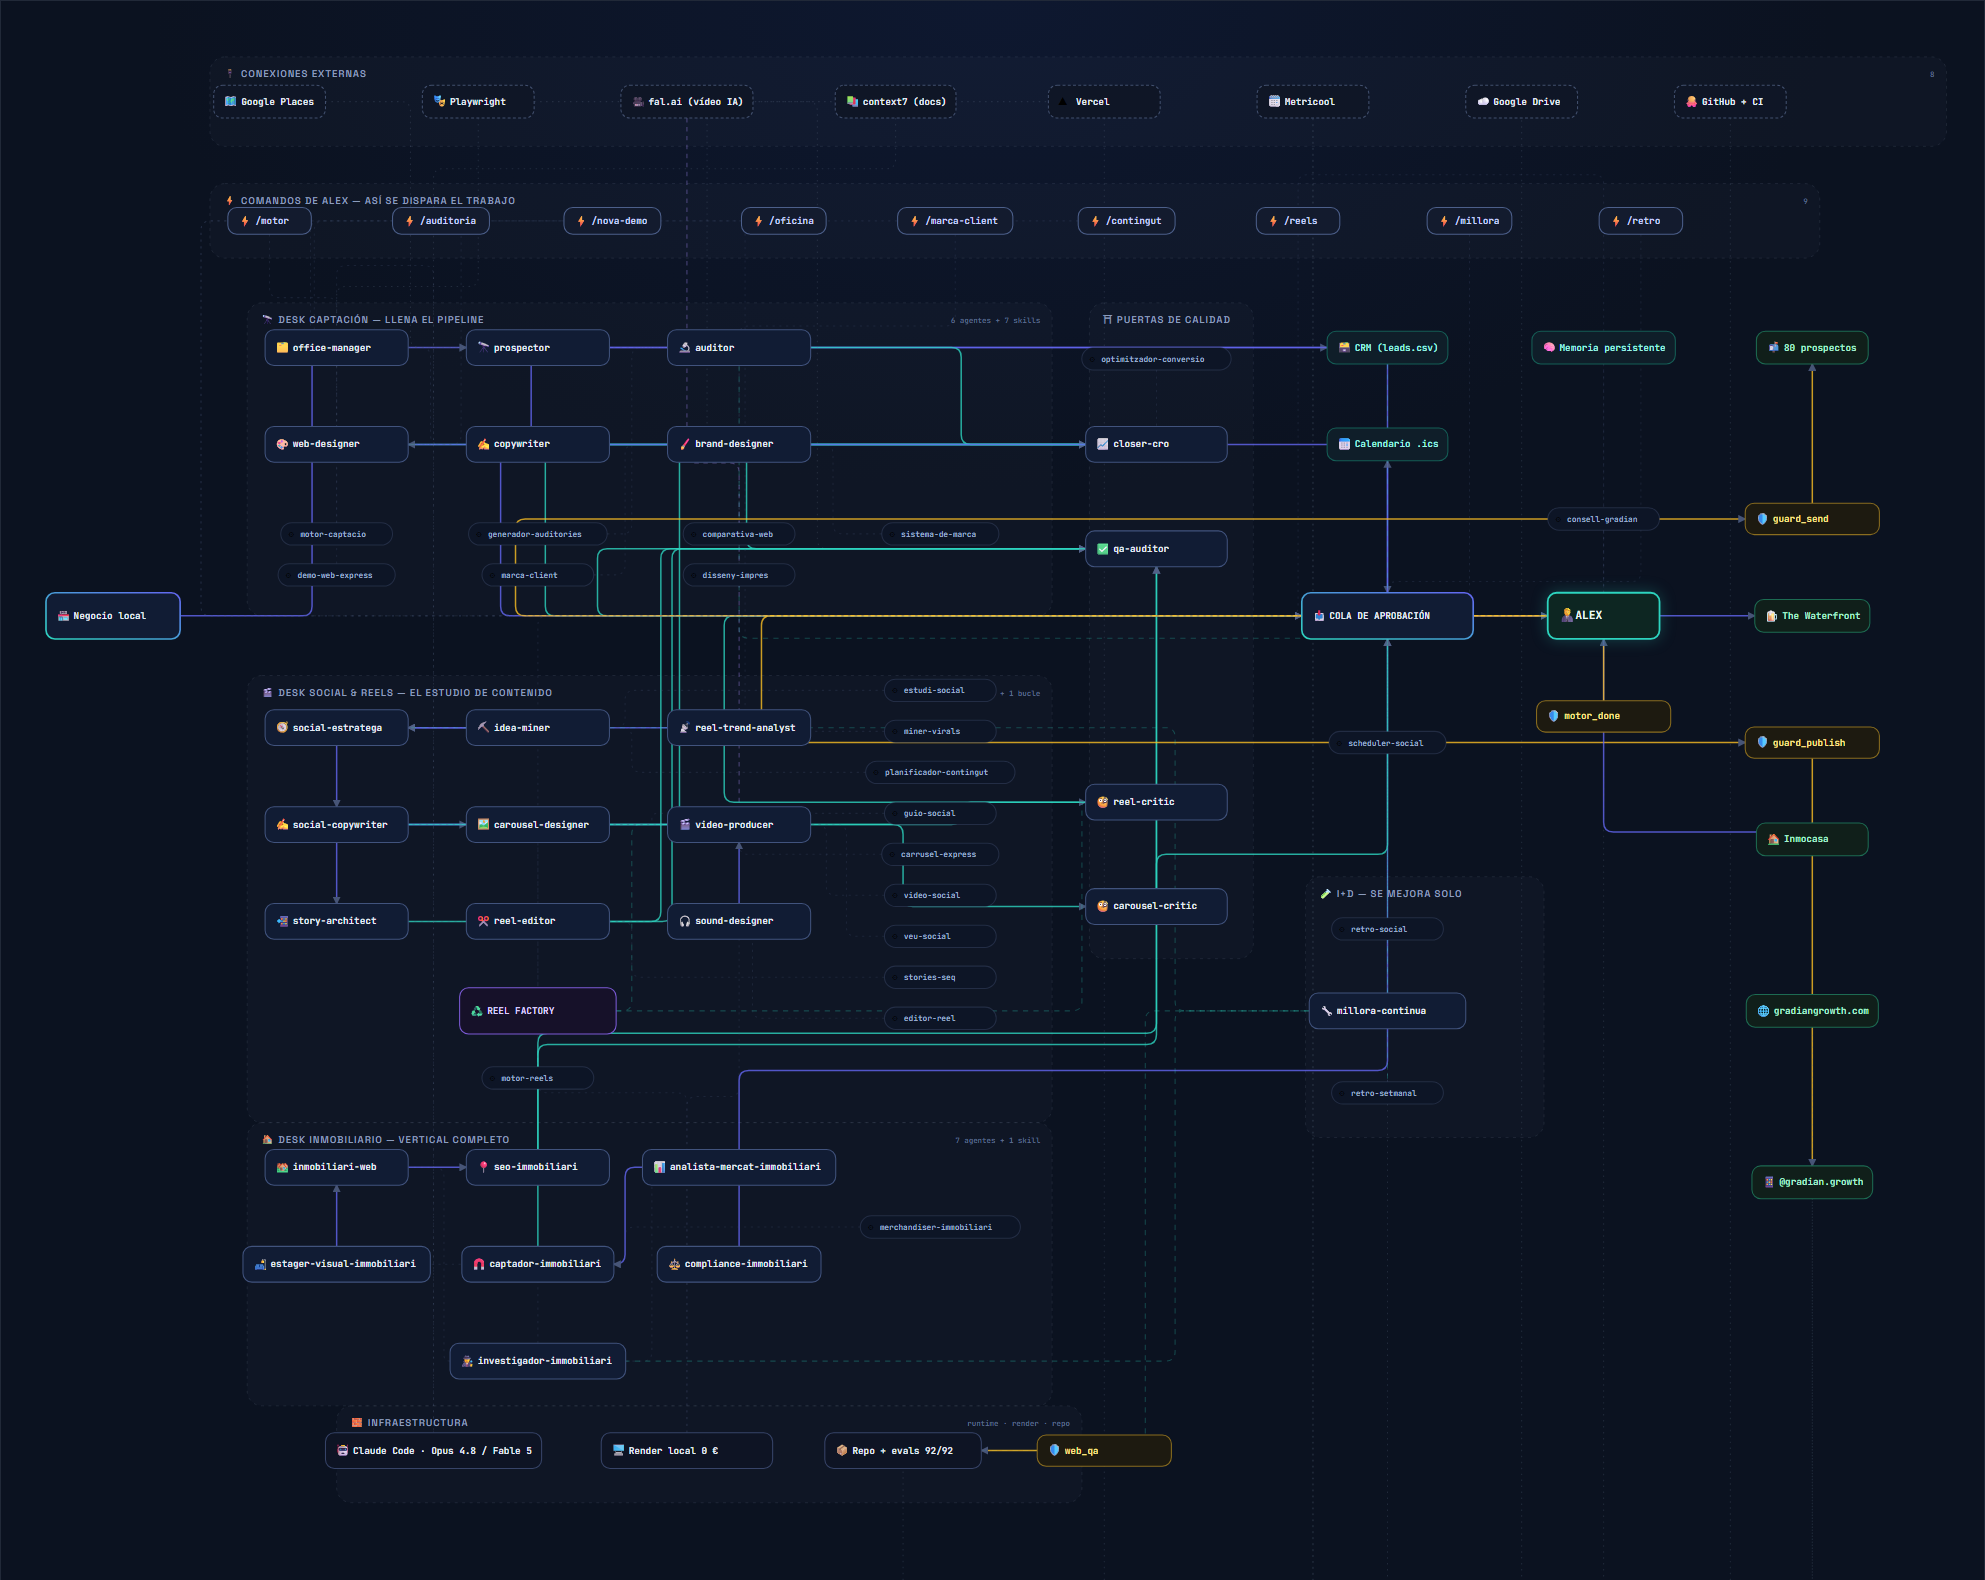
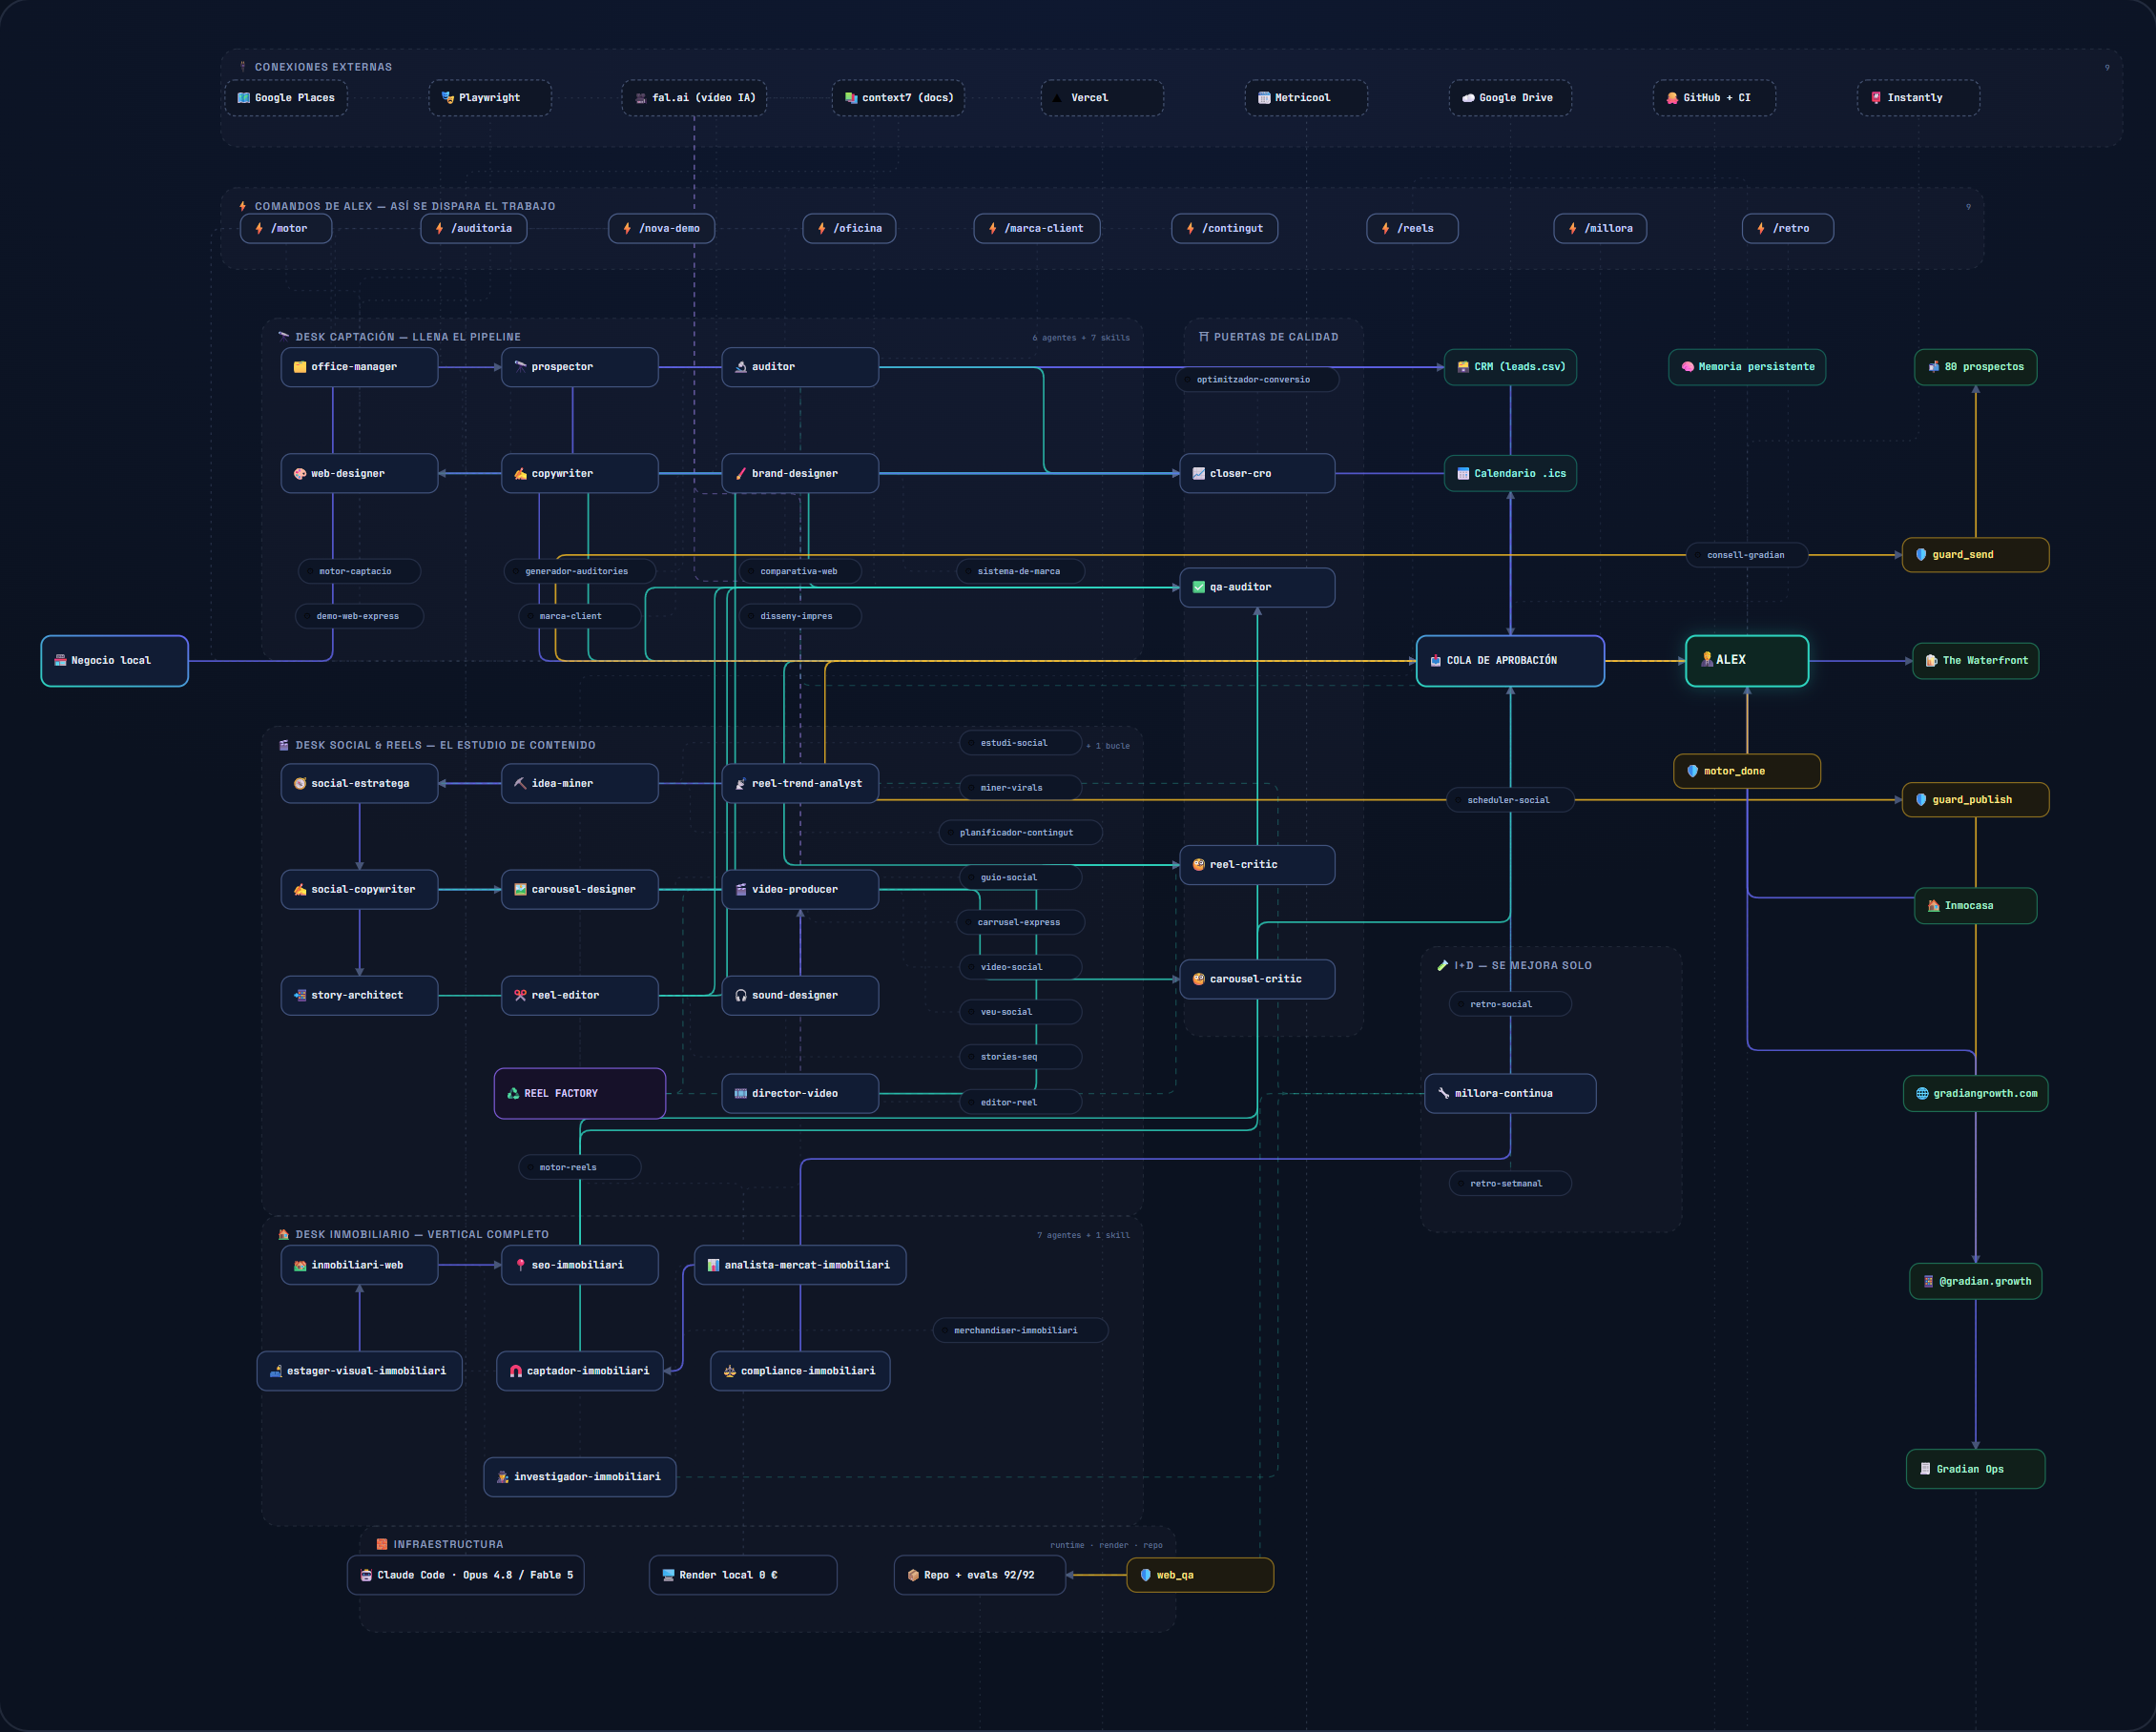
feat: línea Gradian Ops (automatización de procesos) + director-video — 28 agentes, 89 nodos, 111 conexiones
- Mapa: nodos nuevos (Gradian Ops, Instantly con campañas en pausa hasta OK humano, director-video), fila de conexiones externas re-espaciada, tarjeta de resultados de la línea Ops
- Informe PDF re-renderizado (12 pág.) con los recuentos nuevos y la línea Ops en resultados y transferibilidad
- README: línea Ops (gestorías, VeriFactu 2027) + números actualizados

diff --git a/index.html b/index.html
@@ -182,12 +182,12 @@
       <svg viewBox="0 0 100 100" role="img" aria-label="Gradian"><defs><linearGradient id="g1" gradientUnits="userSpaceOnUse" x1="24" y1="76" x2="80" y2="26"><stop offset="0" stop-color="#2DD4BF"/><stop offset="1" stop-color="#6366F1"/></linearGradient></defs><circle cx="24" cy="76" r="6.2" fill="none" stroke="url(#g1)" stroke-width="3.4"/><g fill="none" stroke="url(#g1)" stroke-width="8" stroke-linecap="round" stroke-linejoin="round"><line x1="35" y1="66" x2="80" y2="26"/><path d="M62.5 30.3 L80 26 L73.7 42.9"/></g></svg>
       <b>Gradian</b><span>Digital Growth · mapa del sistema</span>
     </div>
-    <h1>Una persona. <span class="g">Una oficina de 27 agentes de IA.</span></h1>
+    <h1>Una persona. <span class="g">Una oficina de 28 agentes de IA.</span></h1>
     <p class="sub">Así funciona el sistema que investiga negocios locales, fabrica su material de venta
     (auditorías, webs de demostración, marca, contenido para redes: carruseles, reels y stories) y lo deja listo para revisar.
     <strong style="color:var(--head)">Nada se envía ni se publica solo: la última palabra siempre es humana.</strong></p>
     <div class="chips">
-      <div class="chip"><div class="n">27</div><div class="l">agentes especialistas</div></div>
+      <div class="chip"><div class="n">28</div><div class="l">agentes especialistas</div></div>
       <div class="chip"><div class="n">23</div><div class="l">procedimientos (skills)</div></div>
       <div class="chip"><div class="n"><em>2.480</em>&hairsp;M</div><div class="l">tokens procesados en 18 días</div></div>
       <div class="chip"><div class="n">~0&thinsp;€</div><div class="l">coste marginal por pieza</div></div>
@@ -201,7 +201,7 @@
     <h2>Qué entra, qué sale y quién decide</h2>
     <div class="steps">
       <div class="step"><div class="num">01</div><h3>Entra un negocio local</h3><p>El sistema lo encuentra, comprueba que está abierto y puntúa si encaja (web floja, sin reservas, redes muertas…).</p></div>
-      <div class="step"><div class="num">02</div><h3>La oficina produce</h3><p>Auditoría con la oportunidad en €, web de demostración con su marca real, identidad, contenido para Instagram/TikTok.</p></div>
+      <div class="step"><div class="num">02</div><h3>La oficina produce</h3><p>Auditoría con la oportunidad en €, web de demostración con su marca real, identidad, contenido para Instagram/TikTok y recetas de automatización de procesos (línea Ops).</p></div>
       <div class="step"><div class="num">03</div><h3>Controles automáticos</h3><p>Todo pasa filtros de calidad: revisión de conversión (mínimo 80/100), QA técnico y críticos visuales que puntúan cada pieza.</p></div>
       <div class="step human"><div class="num">04</div><h3>Un humano aprueba</h3><p>El material espera en una cola de aprobación. Alex revisa, edita si hace falta y <strong>envía a mano</strong>. Siempre.</p></div>
     </div>
@@ -212,7 +212,7 @@
   <div class="wrap">
     <div class="overline">El mapa completo</div>
     <h2>Todos los nodos, todas las conexiones</h2>
-    <p class="lead" style="margin-top:12px">Cada pieza del sistema es un nodo: <strong style="color:var(--head)">27 agentes, 23 skills,
+    <p class="lead" style="margin-top:12px">Cada pieza del sistema es un nodo: <strong style="color:var(--head)">28 agentes, 23 skills,
     9 comandos, 4 bloqueos, las conexiones externas, los datos y las salidas</strong>. Arrastra para moverte, usa la rueda para hacer
     zoom, pasa el ratón para ver las conexiones de cada nodo y haz clic para el detalle.</p>
 
@@ -295,6 +295,7 @@
       <div class="re"><span class="tag">CLIENTE REAL</span><h3>Inmocasa (inmobiliaria)</h3><p>Rebranding + web de 378 páginas en 7 idiomas con motor de fichas premium, embudo de propietarios y kit de compliance. Entregado; implementación durante julio de 2026.</p></div>
       <div class="re"><span class="tag p">PIPELINE</span><h3>80 prospectos preparados</h3><p>Auditorías con la oportunidad en €, demos con la marca real de cada negocio y borradores de contacto listos para revisar.</p></div>
       <div class="re"><span class="tag p">PRODUCTO PROPIO</span><h3>Web + estudio de contenido</h3><p>gradiangrowth.com en 3 idiomas (accesibilidad 100/100) y una fábrica de reels y carruseles que se critica y mejora a sí misma.</p></div>
+      <div class="re"><span class="tag p">LÍNEA NUEVA · JUL 2026</span><h3>Gradian Ops — automatización</h3><p>Recetas cerradas que automatizan los procesos manuales que sangran tiempo (facturas, mensajes, citas), con mantenimiento mensual. Primer vertical: gestorías, con la factura electrónica obligatoria (VeriFactu, 2027) como ventana. Primera radiografía de operaciones entregada a un cliente real con dos oficinas.</p></div>
     </div>
   </div>
 </section>
@@ -364,6 +365,7 @@ const N = [
  ["reledit","agent",690,1240,"✂️","reel-editor","Convierte grabaciones reales del cliente en reels verticales subtitulados, transcribiendo en local (0 €)."],
  ["sound","agent",960,1240,"🎧","sound-designer","Los efectos de sonido de los reels: whooshes, ticks y blips sincronizados que nunca tapan la voz. Mezcla final a −14 LUFS."],
  ["factory","loop",690,1360,"♻️","REEL FACTORY","El bucle autónomo: produce un reel → el crítico lo puntúa → se aplican mejoras al motor → se registra la lección → siguiente ciclo. Corre solo con /loop /reels.",210],
+ ["dirvideo","agent",960,1360,"🎞️","director-video","El director de vídeo de marca: storyboard, prompts plano a plano, consistencia del objeto de marca entre planos (IA generativa con presupuesto acotado y registro de gasto) y montaje local. Puertas de calidad: hoja de contactos antes de generar vídeo y crítico ≥ 80 sobre el máster."],
 
  /* --- skills social --- */
  ["s_estudi","skill",1230,930,"⚙","estudi-social","El bucle completo del mes de contenido de un cliente."],
@@ -396,19 +398,20 @@ const N = [
  ["s_cro","skill",1520,485,"⚙","optimitzador-conversio","La rúbrica CRO de 7 palancas con umbral 80/100."],
 
  /* --- I+D --- */
- ["millora","agent",1830,1360,"🔧","millora-continua","El agente de I+D: audita el propio sistema, investiga buenas prácticas y aplica mejoras pequeñas y reversibles. Corre los tests de integridad tras cada cambio. Es el 27º agente — el que mejora a los otros 26.",210],
+ ["millora","agent",1830,1360,"🔧","millora-continua","El agente de I+D: audita el propio sistema, investiga buenas prácticas y aplica mejoras pequeñas y reversibles. Corre los tests de integridad tras cada cambio. Es el 28º agente — el que mejora a los otros 27.",210],
  ["s_retro","skill",1830,1470,"⚙","retro-setmanal","Lee el CRM, calcula el embudo real y propone 3 mejoras concretas."],
  ["s_retrosocial","skill",1830,1250,"⚙","retro-social","La señal aprobado/editado/rechazado de la cola → mejoras al banco de ángulos y a los prompts."],
 
  /* --- conexiones externas --- */
  ["places","ext",330,140,"🗺️","Google Places","Fuente del sourcing: nombre, web, teléfono, reseñas y estado (abierto/cerrado) de negocios por zona."],
- ["playwright","ext",610,140,"🎭","Playwright","Un navegador real controlado por agentes: capturas para teasers, QA visual y verificación de webs clicando de verdad."],
- ["fal","ext",890,140,"🎥","fal.ai (vídeo IA)","Generación de vídeo de pago (Kling/Veo). OPT-IN: solo con presupuesto aprobado por Alex; el gasto se reporta tras cada uso."],
- ["context7","ext",1170,140,"📚","context7 (docs)","Documentación técnica viva de librerías y frameworks para no programar de memoria."],
- ["vercel","ext",1450,140,"▲","Vercel","Despliegue: la web pública y las demos de prospecto (URLs demo-*, con noindex)."],
- ["metricool","ext",1730,140,"🗓️","Metricool","Programación de redes vía OAuth de Alex. La máquina jamás tiene credenciales de las cuentas."],
- ["drive","ext",2010,140,"☁️","Google Drive","La carpeta espejo diaria para revisar y enviar desde el móvil (mensaje + PDFs por lead)."],
- ["github","ext",2290,140,"🐙","GitHub + CI","Repositorio privado con integración continua: cada cambio dispara los 92 tests de integridad y el build de la web."],
+ ["playwright","ext",580,140,"🎭","Playwright","Un navegador real controlado por agentes: capturas para teasers, QA visual y verificación de webs clicando de verdad."],
+ ["fal","ext",830,140,"🎥","fal.ai (vídeo IA)","Generación de vídeo de pago (Kling/Veo). OPT-IN: solo con presupuesto aprobado por Alex; el gasto se reporta tras cada uso."],
+ ["context7","ext",1080,140,"📚","context7 (docs)","Documentación técnica viva de librerías y frameworks para no programar de memoria."],
+ ["vercel","ext",1330,140,"▲","Vercel","Despliegue: la web pública y las demos de prospecto (URLs demo-*, con noindex)."],
+ ["metricool","ext",1580,140,"🗓️","Metricool","Programación de redes vía OAuth de Alex. La máquina jamás tiene credenciales de las cuentas."],
+ ["drive","ext",1830,140,"☁️","Google Drive","La carpeta espejo diaria para revisar y enviar desde el móvil (mensaje + PDFs por lead)."],
+ ["github","ext",2080,140,"🐙","GitHub + CI","Repositorio privado con integración continua: cada cambio dispara los 92 tests de integridad y el build de la web."],
+ ["instantly","ext",2330,140,"📮","Instantly","Email en frío de la línea Ops (gestorías): dominio secundario dedicado, calentamiento y 10–15 envíos/día como techo. TODAS las campañas nacen EN PAUSA: nada sale sin el OK explícito de Alex."],
 
  /* --- datos --- */
  ["crm","data",1830,470,"🗃️","CRM (leads.csv)","Un registro por lead con su estado: nuevo → auditado → contactado → seguimiento +3/+7 → cerrado. Vive FUERA del repositorio (RGPD) y nunca se versiona."],
@@ -422,24 +425,25 @@ const N = [
  ["mdone","hook",2120,965,"🛡️","motor_done","Cuando el motor termina, avisa: «el paquete del día está listo». Nada acaba en silencio."],
 
  /* --- infraestructura --- */
- ["claude","infra",550,1950,"🤖","Claude Code · Opus 4.8 / Fable 5","El runtime: el entorno de agentes de Anthropic donde viven los 27 especialistas, con los modelos Claude como cerebro.",290],
+ ["claude","infra",550,1950,"🤖","Claude Code · Opus 4.8 / Fable 5","El runtime: el entorno de agentes de Anthropic donde viven los 28 especialistas, con los modelos Claude como cerebro.",290],
  ["render","infra",890,1950,"🖥️","Render local 0 €","Chrome headless (PDFs, slides), ffmpeg (vídeo), Piper (voz IA), Whisper (transcripción). Producir una pieza más no cuesta nada.",230],
  ["repo","infra",1180,1950,"📦","Repo + evals 92/92","Todo versionado en Git. La CI verifica en cada cambio que agentes, skills y bloqueos siguen conectados.",210],
 
  /* --- salidas --- */
  ["prospectes","out",2400,470,"📬","80 prospectos","Auditoría + demo + borradores preparados en ~15 localidades. Enviados a mano, uno a uno, con seguimiento agendado."],
  ["waterfront","out",2400,830,"🍺","The Waterfront","Cliente real: pub irlandés. Web + marca + carta QR + vídeo de anuncio."],
- ["inmocasa","out",2400,1130,"🏠","Inmocasa","Cliente real: inmobiliaria. Rebranding + web 378 pág./7 idiomas + embudo + compliance."],
+ ["inmocasa","out",2400,1130,"🏠","Inmocasa","Cliente real: inmobiliaria. Rebranding + web 378 pág./7 idiomas + embudo + compliance. En julio de 2026, además: radiografía de operaciones (línea Ops) con su 2ª oficina conectada al catálogo."],
  ["gweb","out",2400,1360,"🌐","gradiangrowth.com","La web propia: 3 idiomas, accesibilidad 100/100, desplegada en CI."],
  ["gsocial","out",2400,1590,"📱","@gradian.growth","IG + TikTok propios: Gradian es cliente de su propia máquina de contenido (build-in-public)."],
+ ["opsline","out",2400,1820,"🧾","Gradian Ops","La línea nueva (julio 2026): automatizar los procesos manuales que sangran tiempo — facturación electrónica (VeriFactu: obligatorio para sociedades el 1-1-2027 y para autónomos el 1-7-2027), mensajes y citas — como recetas cerradas con mantenimiento mensual. Primer vertical: gestorías, con carril propio en el motor de captación. Primera radiografía de operaciones entregada a un cliente real.",170],
 ];
 
 /* ---------- zonas: [x,y,w,h,icono+título,recuento] ---------- */
 const ZONES = [
- [250,80,2330,120,"🔌 CONEXIONES EXTERNAS","8"],
+ [250,80,2330,120,"🔌 CONEXIONES EXTERNAS","9"],
  [250,250,2160,100,"⚡ COMANDOS DE ALEX — ASÍ SE DISPARA EL TRABAJO","9"],
  [300,410,1080,420,"🔭 DESK CAPTACIÓN — LLENA EL PIPELINE","6 agentes + 7 skills"],
- [300,910,1080,600,"🎬 DESK SOCIAL & REELS — EL ESTUDIO DE CONTENIDO","9 agentes + 11 skills + 1 bucle"],
+ [300,910,1080,600,"🎬 DESK SOCIAL & REELS — EL ESTUDIO DE CONTENIDO","10 agentes + 11 skills + 1 bucle"],
  [300,1510,1080,380,"🏠 DESK INMOBILIARIO — VERTICAL COMPLETO","7 agentes + 1 skill"],
  [1430,410,220,880,"⛩ PUERTAS DE CALIDAD",""],
  [1720,1180,320,350,"🧪 I+D — SE MEJORA SOLO",""],
@@ -464,7 +468,7 @@ const E = [
  ["scopy","closer","gate",{lane:880}],
  ["cardes","ccritic","gate",{lane:1180}],["vprod","rcritic","gate"],["story","qa","gate",{lane:855}],["reledit","qa","gate",{lane:870}],
  ["sound","vprod","flow"],["factory","vprod","fb"],["rcritic","factory","fb",{lane:1420}],
- ["fal","vprod","optin"],
+ ["fal","vprod","optin"],["fal","dirvideo","optin"],["dirvideo","rcritic","gate"],
  ["s_estudi","estratega","del"],["s_miner","idea","del"],["s_plani","estratega","del"],
  ["s_guio","scopy","del"],["s_carr","cardes","del"],["s_video","vprod","del"],["s_veu","vprod","del"],
  ["s_stories","story","del"],["s_editor","reledit","del"],["s_motorreels","factory","del"],
@@ -482,6 +486,7 @@ const E = [
  ["alex","gsend","guard",{lane:660}],["gsend","prospectes","guard"],
  ["alex","gpublish","guard",{lane:990}],["gpublish","gsocial","guard"],
  ["alex","waterfront","flow"],["alex","inmocasa","flow",{lane:1120}],
+ ["alex","instantly","ext",{axis:"v",lane:560}],["alex","opsline","flow"],
  ["alex","metricool","ext",{lane:2255}],["metricool","gsocial","ext",{lane:2530}],
  ["vercel","gweb","ext",{lane:2560}],
  /* comandos → objetivos */
@@ -599,9 +604,9 @@ document.getElementById("mapcount").textContent =
 
 /* leyenda */
 const LEG = [
- ["agent","#3b4c72","Agentes (27)"],["skill","#64748b","Skills (23)"],["cmd","#4c5f8a","Comandos (9)"],
- ["hook","#fbbf24","Bloqueos (4)"],["ext","#94a3b8","Externas (8)"],["data","#2DD4BF","Datos (3)"],
- ["out","#34d399","Salidas (5)"],["infra","#7487b3","Infra (3)"],["loop","#a78bfa","Bucles (1)"],
+ ["agent","#3b4c72","Agentes (28)"],["skill","#64748b","Skills (23)"],["cmd","#4c5f8a","Comandos (9)"],
+ ["hook","#fbbf24","Bloqueos (4)"],["ext","#94a3b8","Externas (9)"],["data","#2DD4BF","Datos (3)"],
+ ["out","#34d399","Salidas (6)"],["infra","#7487b3","Infra (3)"],["loop","#a78bfa","Bucles (1)"],
 ];
 const legend = document.getElementById("legend");
 legend.innerHTML = LEG.map(([t,c,l])=>

diff --git a/README.md b/README.md
@@ -1,8 +1,9 @@
 # Gradian — el sistema, por dentro
 
-**Una persona dirigiendo una oficina de 27 agentes de IA** que investiga negocios locales y fabrica su
+**Una persona dirigiendo una oficina de 28 agentes de IA** que investiga negocios locales y fabrica su
 material de crecimiento — auditorías con la oportunidad en €, webs de demostración con la marca real
-del negocio, identidad, contenido para redes (carruseles de marca, reels con voz IA, stories) — con una regla no negociable: **nada se envía ni se
+del negocio, identidad, contenido para redes (carruseles de marca, reels con voz IA, stories) y, desde
+julio de 2026, **automatización de procesos** (línea Gradian Ops) — con una regla no negociable: **nada se envía ni se
 publica sin aprobación humana**, garantizado por bloqueos técnicos.
 
 ### 🗺️ [Ver el mapa interactivo →](https://arekusumt.github.io/gradian-sistema/)
@@ -10,13 +11,13 @@ publica sin aprobación humana**, garantizado por bloqueos técnicos.
 Zoom, búsqueda, filtros por tipo, ficha de cada nodo y recorridos animados (el viaje de un lead y el de
 un reel). También está el **[informe completo en PDF (12 páginas)](./gradian-como-funciona.pdf)**.
 
-![Mapa del sistema Gradian: 86 nodos y 107 conexiones](img/mapa-nodos.png)
+![Mapa del sistema Gradian: 89 nodos y 111 conexiones](img/mapa-nodos.png)
 
 ## El sistema en números — 18 días medidos, no estimados
 
 | | |
 |---|---|
-| Agentes de IA especialistas | **27**, en 3 departamentos (captación · social/reels · inmobiliario) |
+| Agentes de IA especialistas | **28**, en 3 departamentos (captación · social/reels · inmobiliario) |
 | Skills (procedimientos versionados) | **23** |
 | Comandos de operación + bloqueos de seguridad | **9** + **4** hooks (`guard_send`, `guard_publish`…) |
 | Sesiones de trabajo · llamadas al modelo | **74** · **8.312** |
@@ -28,6 +29,13 @@ un reel). También está el **[informe completo en PDF (12 páginas)](./gradian-
 Los dos clientes reales: **[The Waterfront](https://waterfrontirishpub.com)** (pub irlandés — su web nueva
 ya está **en producción**) e **Inmocasa** (inmobiliaria — entregado). El resto de piezas entregadas a ambos
 se implementa durante julio de 2026.
+
+**Lo último (julio 2026): la línea Gradian Ops.** Automatización de los procesos manuales que sangran
+tiempo en un negocio (facturas, mensajes, citas), empaquetada como recetas cerradas con mantenimiento
+mensual. Primer vertical: **gestorías**, con la factura electrónica obligatoria en España (VeriFactu:
+sociedades 1-1-2027, autónomos 1-7-2027) como ventana de entrada — y carril propio en el motor de
+captación, con outreach por email que nace **en pausa** hasta el OK humano. Primera radiografía de
+operaciones ya entregada a un cliente real con dos oficinas.
 
 ## Cómo está construido
 
@@ -54,9 +62,11 @@ mapa público del sistema.
 
 ### English TL;DR
 
-An interactive map of a **real agentic system**: one person orchestrating a 27-agent AI office
+An interactive map of a **real agentic system**: one person orchestrating a 28-agent AI office
 (built on Claude Code) that produces sales-ready growth material for local businesses — audits,
-brand-accurate demo websites, identity, social content (carousels, AI-voiced reels, stories). One client
+brand-accurate demo websites, identity, social content (carousels, AI-voiced reels, stories), and a new
+process-automation line (Gradian Ops: closed "recipes" automating invoices, messages and appointments;
+first vertical: accounting firms, ahead of Spain's 2027 mandatory e-invoicing). One client
 site is already [live in production](https://waterfrontirishpub.com); the remaining deliverables roll out
 during July 2026. Human-in-the-loop by design: technical
 guardrails physically block any autonomous sending or publishing. Built and shipped in 18 days;